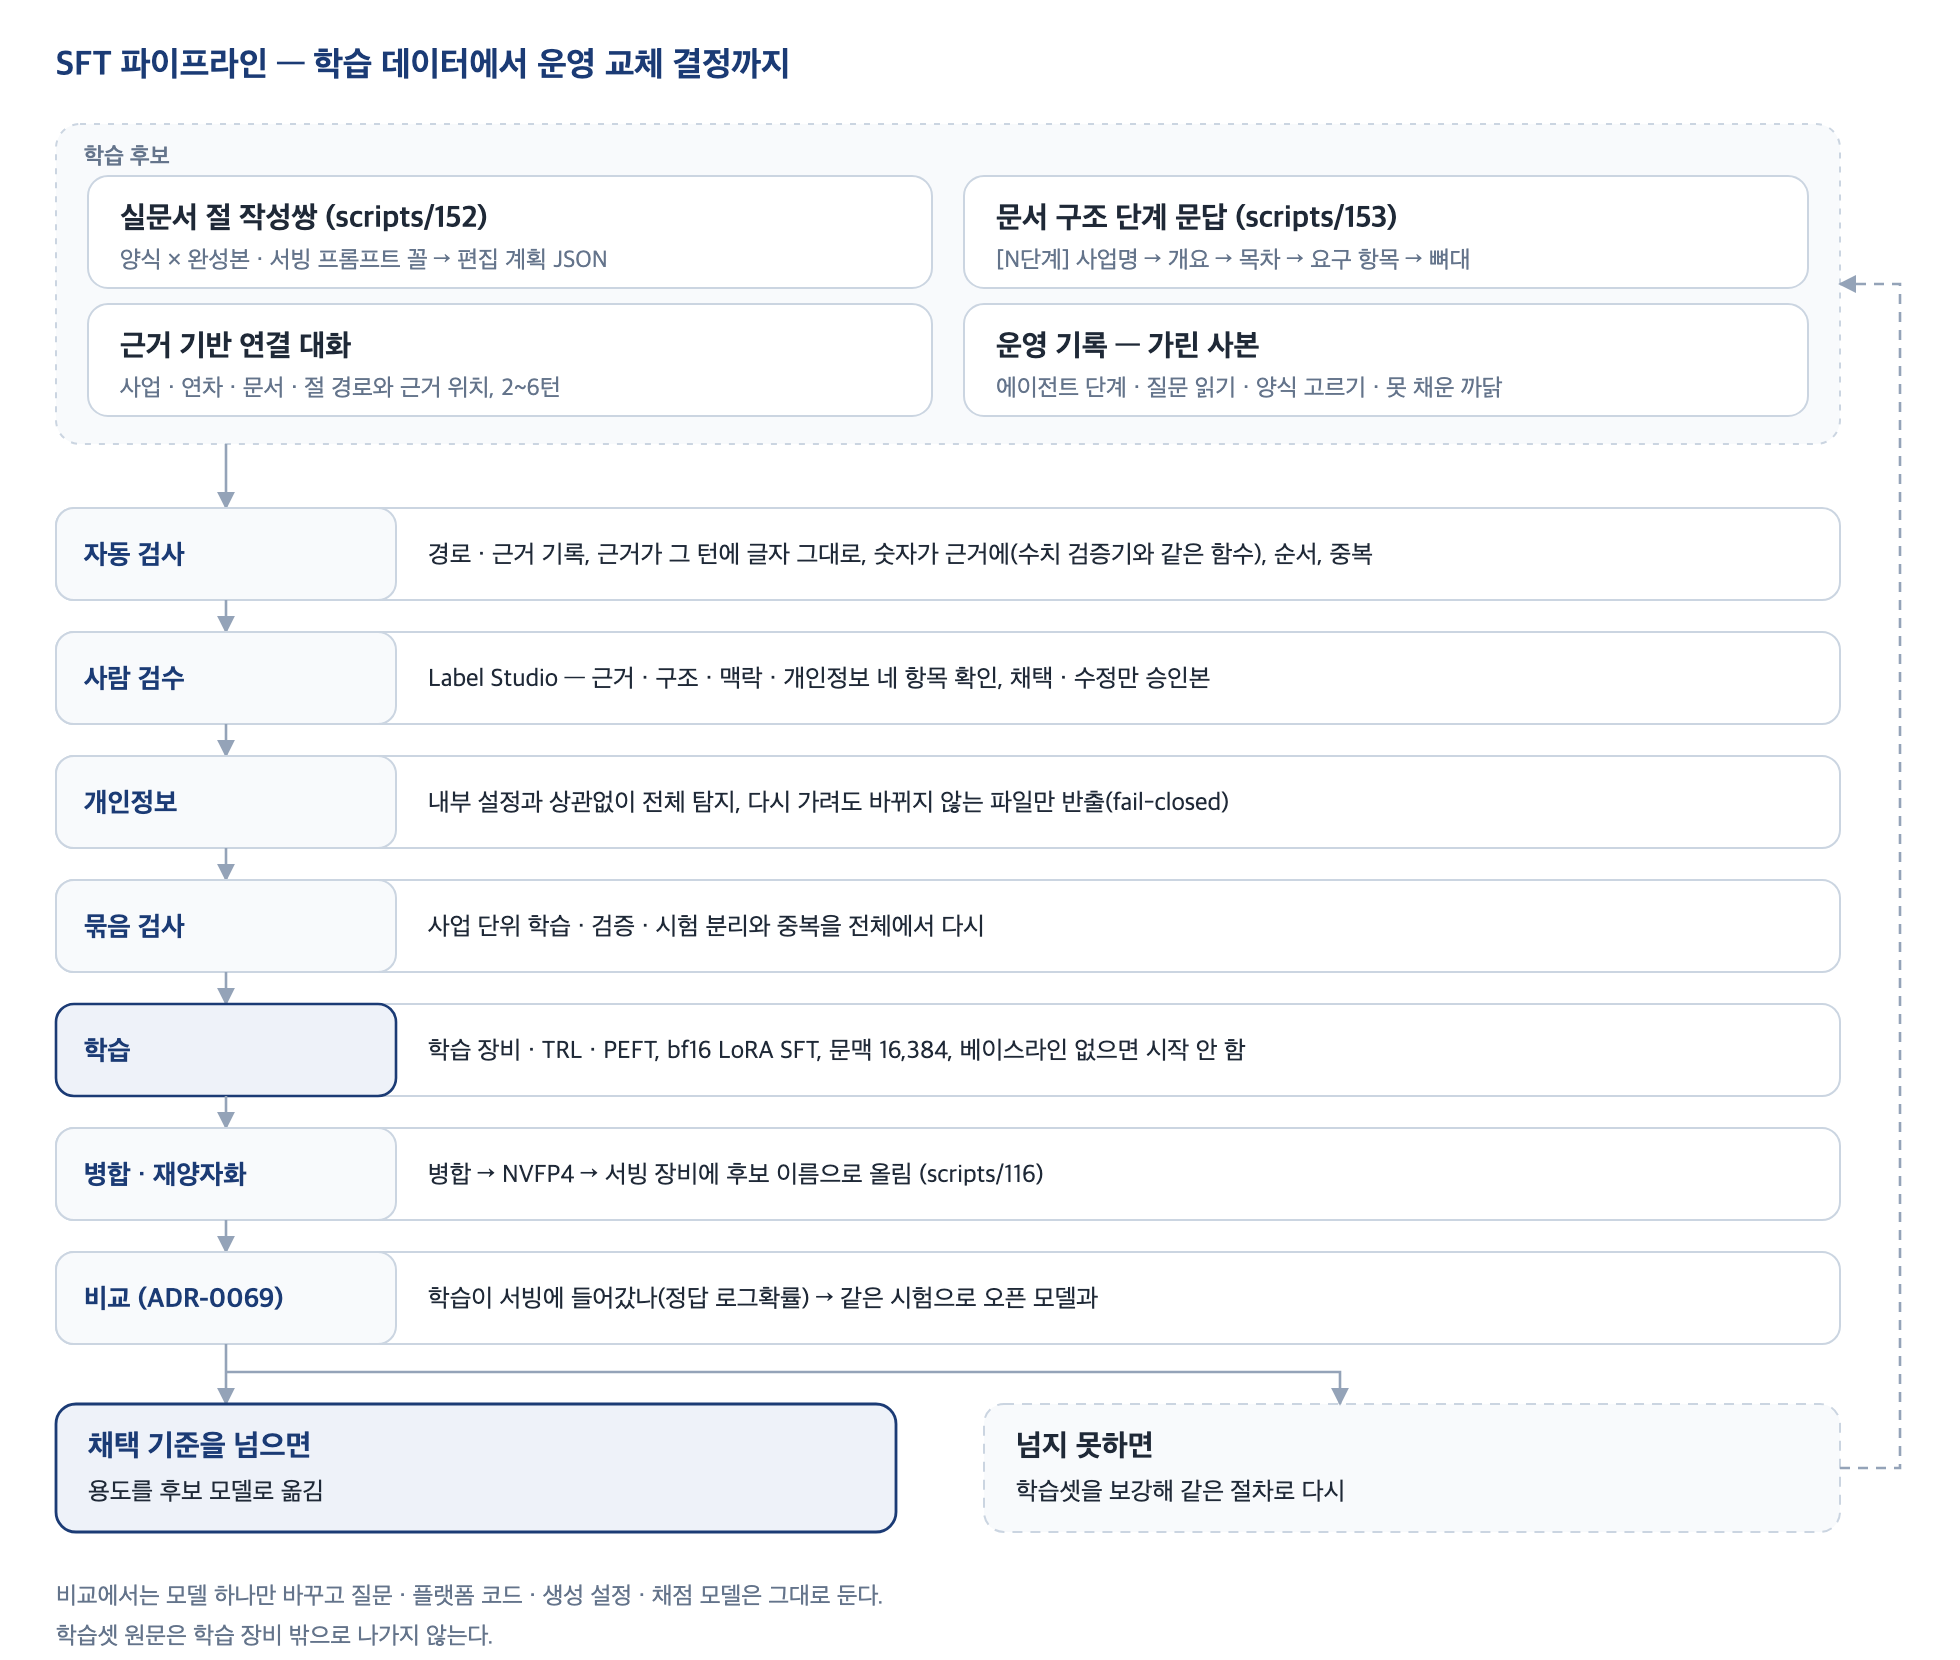
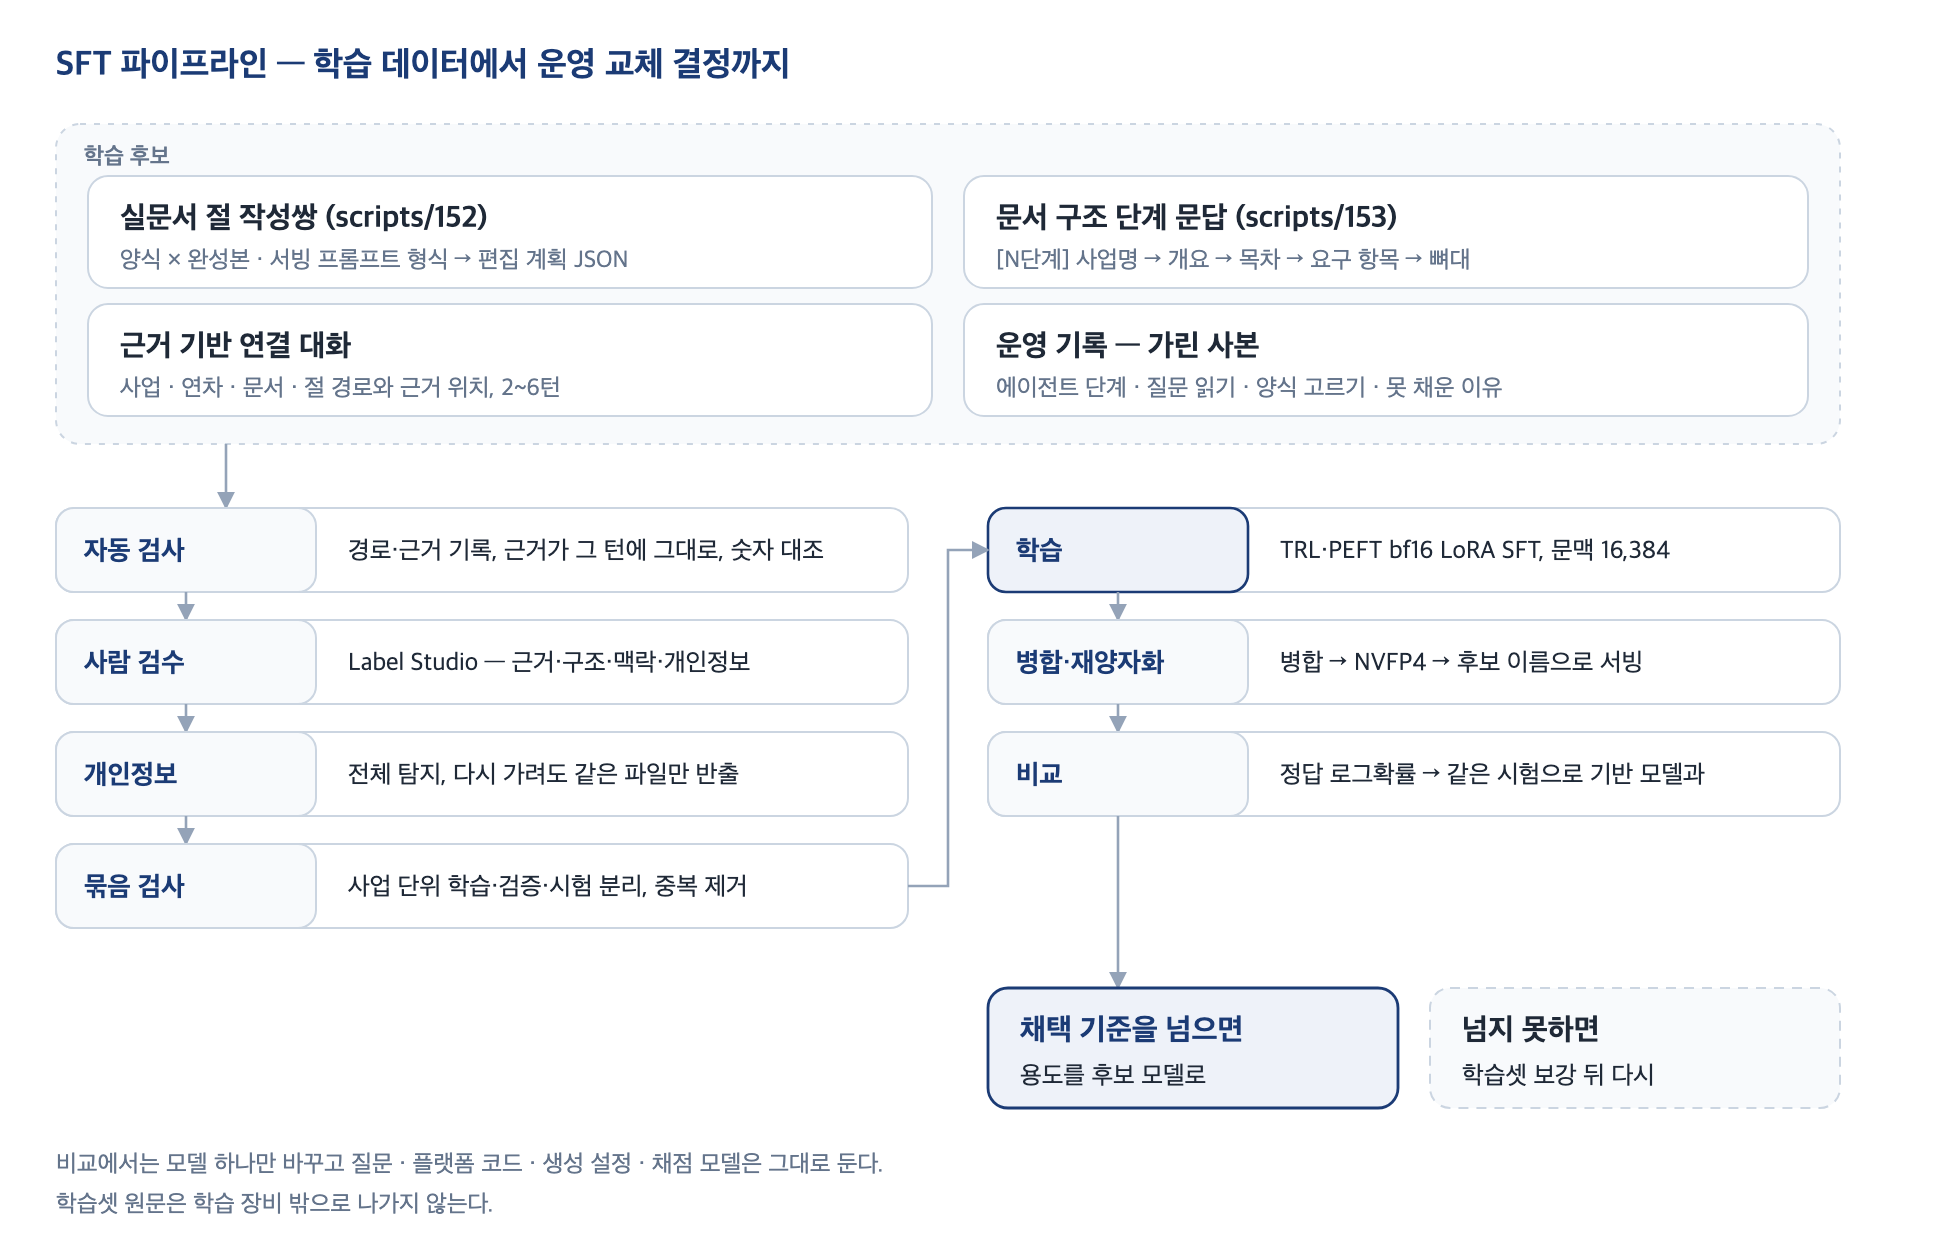
논문 SFT 파이프라인 도식 가로형으로 다시 그림(쪽 빈칸 줄이기)

diff --git a/docs/images/diagrams/make_diagrams_ch34.py b/docs/images/diagrams/make_diagrams_ch34.py
@@ -475,43 +475,46 @@ def hwpx_fill():
 
 
 def sft_pipeline():
-    """[그림 4-38] SFT 파이프라인."""
-    s = Svg(W, 830)
+    """[그림 4-14] SFT 파이프라인 — 가로로 넓게(두 줄 단계), 세로가 길어 논문 쪽에 통째로 넘어가며 빈칸을 남겼다(11-16)."""
+    s = Svg(W, 625)
     s.text(28, 38, "SFT 파이프라인 — 학습 데이터에서 운영 교체 결정까지", size=17, weight=700, color=NAVY)
     right = W - 60
     s.band(28, 62, right - 28, 160, "학습 후보")
-    cands = [("실문서 절 작성쌍 (scripts/152)", "양식 × 완성본 · 서빙 프롬프트 꼴 → 편집 계획 JSON"),
+    cands = [("실문서 절 작성쌍 (scripts/152)", "양식 × 완성본 · 서빙 프롬프트 형식 → 편집 계획 JSON"),
              ("문서 구조 단계 문답 (scripts/153)", "[N단계] 사업명 → 개요 → 목차 → 요구 항목 → 뼈대"),
              ("근거 기반 연결 대화", "사업 · 연차 · 문서 · 절 경로와 근거 위치, 2~6턴"),
-             ("운영 기록 — 가린 사본", "에이전트 단계 · 질문 읽기 · 양식 고르기 · 못 채운 까닭")]
+             ("운영 기록 — 가린 사본", "에이전트 단계 · 질문 읽기 · 양식 고르기 · 못 채운 이유")]
     cw = (right - 28 - 16 * 3) / 2
     for i, (t, ln) in enumerate(cands):
         s.box(44 + (i % 2) * (cw + 16), 88 + (i // 2) * 64, cw, 56, t, [], fill=FILL)
         s.text(44 + (i % 2) * (cw + 16) + 16, 88 + (i // 2) * 64 + 46, ln, size=12, color=MUTED)
-    steps = [("자동 검사", "경로 · 근거 기록, 근거가 그 턴에 글자 그대로, 숫자가 근거에(수치 검증기와 같은 함수), 순서, 중복"),
-             ("사람 검수", "Label Studio — 근거 · 구조 · 맥락 · 개인정보 네 항목 확인, 채택 · 수정만 승인본"),
-             ("개인정보", "내부 설정과 상관없이 전체 탐지, 다시 가려도 바뀌지 않는 파일만 반출(fail-closed)"),
-             ("묶음 검사", "사업 단위 학습 · 검증 · 시험 분리와 중복을 전체에서 다시"),
-             ("학습", "학습 장비 · TRL · PEFT, bf16 LoRA SFT, 문맥 16,384, 베이스라인 없으면 시작 안 함"),
-             ("병합 · 재양자화", "병합 → NVFP4 → 서빙 장비에 후보 이름으로 올림 (scripts/116)"),
-             ("비교 (ADR-0069)", "학습이 서빙에 들어갔나(정답 로그확률) → 같은 시험으로 오픈 모델과")]
-    y = 254
-    s.arrow([(113, 222), (113, y)])
-    for i, (a, b) in enumerate(steps):
-        step_row(s, 28, y, right - 28, a, b, h=46, name_w=170, strong=(a == "학습"))
-        if i < len(steps) - 1:
-            s.arrow([(113, y + 46), (113, y + 62)])
-        y += 62
-    y += 14
-    s.arrow([(113, y - 30), (113, y)])
-    s.box(28, y, 420, 64, "채택 기준을 넘으면", ["용도를 후보 모델로 옮김"], strong=True)
-    s.box(492, y, right - 492, 64, "넘지 못하면", ["학습셋을 보강해 같은 절차로 다시"], dashed=True, fill=SOFT)
-    s.arrow([(113, y - 16), (670, y - 16), (670, y)])
-    s.arrow([(right, y + 32), (W - 30, y + 32), (W - 30, 142), (right, 142)], dashed=True)
-    footer(s, y + 100, "비교에서는 모델 하나만 바꾸고 질문 · 플랫폼 코드 · 생성 설정 · 채점 모델은 그대로 둔다.",
+    left_steps = [("자동 검사", "경로·근거 기록, 근거가 그 턴에 그대로, 숫자 대조"),
+                  ("사람 검수", "Label Studio — 근거·구조·맥락·개인정보"),
+                  ("개인정보", "전체 탐지, 다시 가려도 같은 파일만 반출"),
+                  ("묶음 검사", "사업 단위 학습·검증·시험 분리, 중복 제거")]
+    right_steps = [("학습", "TRL·PEFT bf16 LoRA SFT, 문맥 16,384"),
+                   ("병합·재양자화", "병합 → NVFP4 → 후보 이름으로 서빙"),
+                   ("비교", "정답 로그확률 → 같은 시험으로 기반 모델과")]
+    colw = (right - 28 - 40) / 2
+    x1, x2 = 28, 28 + colw + 40
+    y0 = 254
+    s.arrow([(113, 222), (113, y0)])
+    for col, (x, steps) in enumerate(((x1, left_steps), (x2, right_steps))):
+        y = y0
+        for i, (a, b) in enumerate(steps):
+            step_row(s, x, y, colw, a, b, h=42, name_w=130, strong=(a == "학습"))
+            if i < len(steps) - 1:
+                s.arrow([(x + 65, y + 42), (x + 65, y + 56)])
+            y += 56
+    # 왼쪽 끝 → 오른쪽 첫 단계
+    s.arrow([(x1 + colw, y0 + 3 * 56 + 21), (x1 + colw + 20, y0 + 3 * 56 + 21), (x1 + colw + 20, y0 + 21), (x2, y0 + 21)])
+    y = y0 + 4 * 56 + 16
+    s.arrow([(x2 + 65, y0 + 2 * 56 + 42), (x2 + 65, y)])
+    s.box(x2, y, colw / 2 - 8, 60, "채택 기준을 넘으면", ["용도를 후보 모델로"], strong=True)
+    s.box(x2 + colw / 2 + 8, y, colw / 2 - 8, 60, "넘지 못하면", ["학습셋 보강 뒤 다시"], dashed=True, fill=SOFT)
+    footer(s, y + 92, "비교에서는 모델 하나만 바꾸고 질문 · 플랫폼 코드 · 생성 설정 · 채점 모델은 그대로 둔다.",
            "학습셋 원문은 학습 장비 밖으로 나가지 않는다.")
     s.save("c4-38-sft-pipeline", "SFT 파이프라인")
-
 
 if __name__ == "__main__":
     for f in (layers, build_flow, query_flow, folders, access, model_swap,

diff --git a/docs/dev-now.md b/docs/dev-now.md
@@ -49,6 +49,7 @@
 
 ## 최근 작업
 
+- 11-16 논문 [그림 4-14] SFT 파이프라인을 두 줄 가로형으로 다시 그림(830 → 625 높이, ADR 번호·조어 뺌) — 세로로 길어 통째로 다음 쪽으로 넘어가며 빈칸을 남겼다.
 - 11-16 작업본 점검: 칸 글 전체가 「… 입력」 인 만든 양식 빈 칸도 견본 글로, 짧은 번호 제목(「1. 요약」)은 서식 밖 글자에서 뺌(제목을 고쳐 쓰게 하던 오탐).
 - 11-16 절 본문 글자 크기가 줄마다 섞이던 것 — 줄마다 같은 부호 견본의 글자를 빌리는데 앞서 AURA 가 쓴 절도 견본이 되어 17.6pt·13pt 가 섞였다. 들여쓰기는 견본대로, 글자 크기는 그 절 자리의 본문 글자 하나로(webhwp_write.write_section). 공동 편집 글자 누락·Enter 문단 겹침은 세 창 동시 입력 시험(빠르게·Enter 포함)에서 재현되지 않음 — 녹화 때 보인 누락은 새 판 덮개가 걷히지 않던 버그(옛 판 그림)로 판단.
 - 11-16 목차 쪽 번호 도구(hwp_toc_pages: 필터 서버 PDF → 쪽마다 글에서 제목 쪽 찾기, 찍힌 번호 우선, 제목은 XML 기호 풀고 글자·숫자만 견줌)·점검에 「목차 0」·「같은 표 두 번」. 파일 도구 크기 상한 30MB 박힘 → 설정(ZZAIMY_HWP_MAX_FILE_MB, 기본 변환 서버 한도) — 14차가 31.5MB 를 넘자 그림 넣기·표 정리가 막혀 「[그림 image_007.jpg]」 자리 표시 37곳이 남았다. 넣는 그림은 긴 변 2000px·다시 압축(4천만 화소 넘는 그림은 풀지 않음 — 압축 폭탄).
